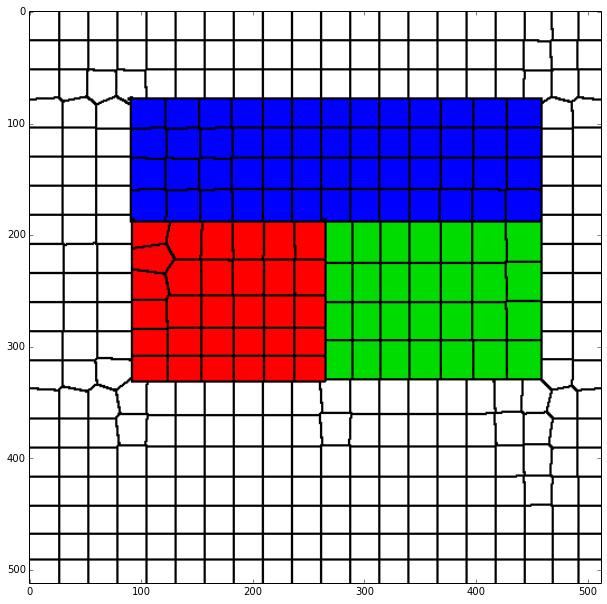
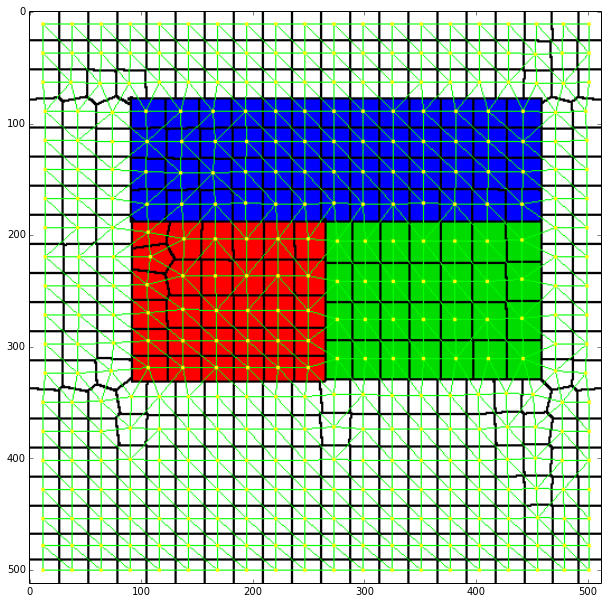
rectified image

diff --git a/rag_draw.md b/rag_draw.md
@@ -13,8 +13,8 @@ introduction/) to help better visualize the results. Later,
 for scikit-image. It will indeed be a very helpful tool for anyone who wants to
 explore RAGs in scikit-image.
 
-Getting Started
----------------
+## Getting Started
+
 You will need to pull for [this](https://github.com/scikit-image/scikit-
 image/pull/1087) Pull Request to be able to execute the code below. I'll start
 by defining a custom `show_image` function to aid displaying in IPython
@@ -61,14 +61,14 @@ show_image(border_image)
 
 ![png](rag_draw_files/rag_draw_7_0.png)
 
-
+## Drawing the RAGs
 We can now form out RAG and see how it looks.
 
 ```python
 rag = graph.rag_mean_color(image, labels)
 out = graph.draw_rag(labels, rag, border_image)
-show_image(border_image)
-````
+show_image(out)
+```
 
 ![png](rag_draw_files/rag_draw_9_1.png)
 
@@ -128,6 +128,7 @@ show_image(out)
 
 **Ahhh, magnificent.**
 
+## Examples
 I will go over some examples of RAG drawings, since most of it is similar, I won't repeat the 
 code here. The Ncut technique, wherever used, was with its default parameters.
 
@@ -148,3 +149,9 @@ code here. The Ncut technique, wherever used, was with its default parameters.
 
 ### Coins Image and their color distance RAG after NCut
 ![png](rag_draw_files/coins.png)
+
+
+## Further Imporovements
+A point that was brought up in the PR as well is that thick lines would immensely enhance the visual
+appeal of the output. As and when they are implemented, `rag_draw` should be modified to support drawing
+thick edges.
